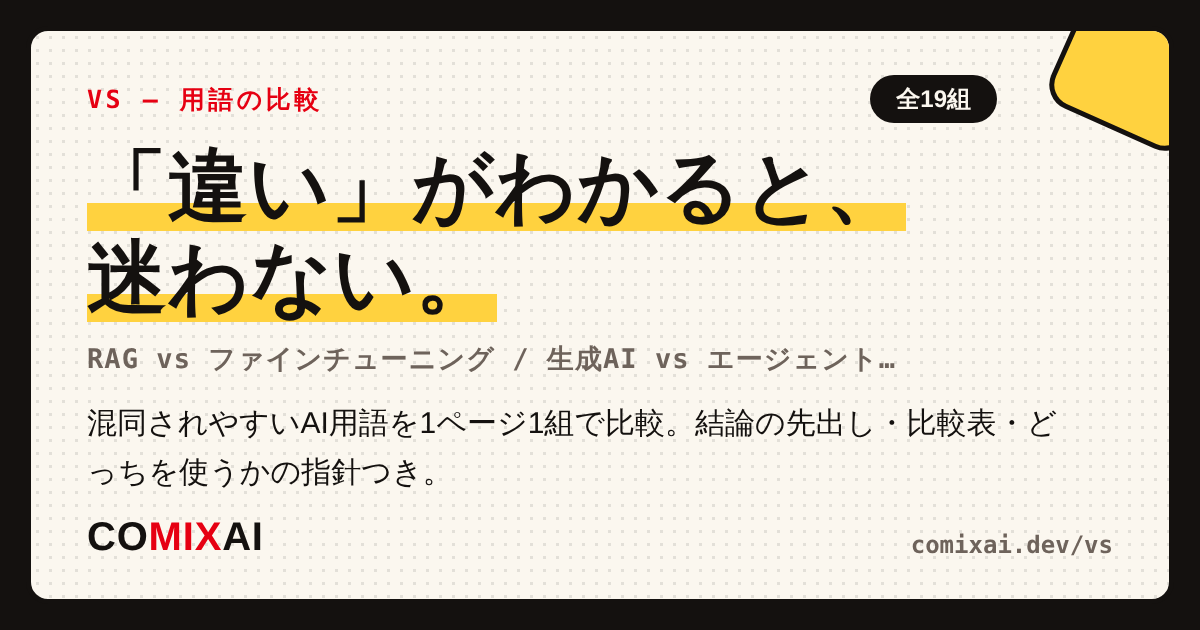
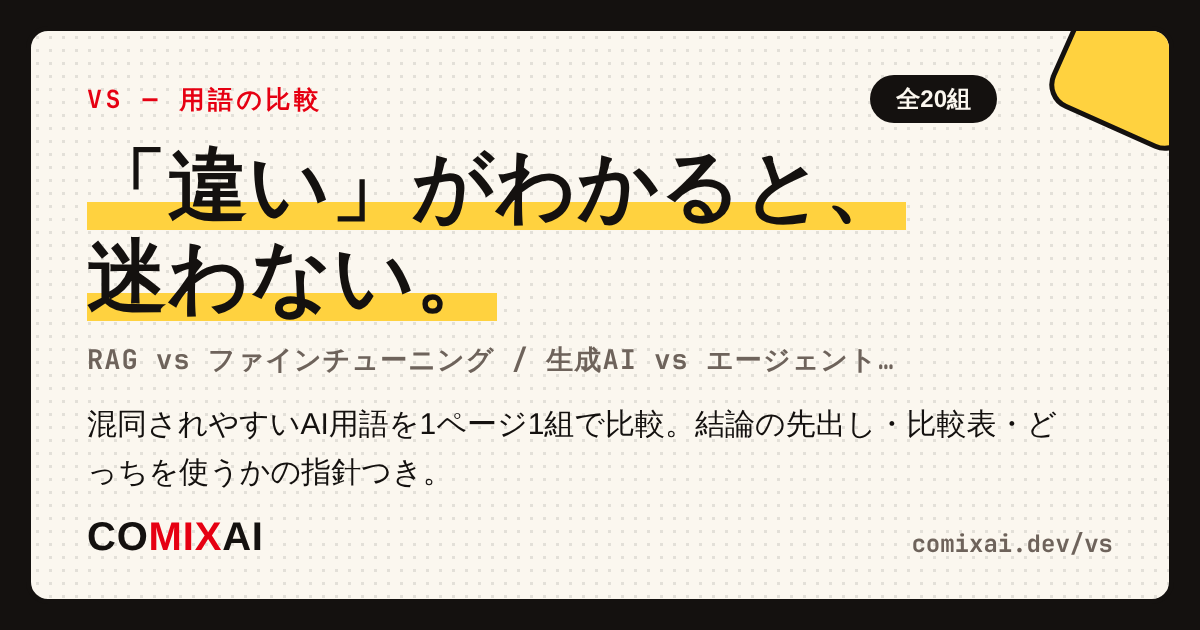
feat: 比較ページに「Gemini 4 CarbonとGPT-6 Cyberの違い」を追加 (#305)
/vs に「Gemini 4 CarbonとGPT-6 Cyberの違い」を追加（全20組）。
VS_UPDATED を 2026-11-11 に更新、#299のルールに従い両用語ページの links に比較リンクを追加、
OGP画像（新ページ分 + 20組入り index.png）を再生成。

Claude-Session: https://claude.ai/code/session_01S4i7KvmcRV6C8UgcMNEjXV

diff --git a/src/app/vs/data.ts b/src/app/vs/data.ts
@@ -47,7 +47,7 @@ export interface VsPair {
   lastUpdated: string;
 }
 
-export const VS_UPDATED = "2026-11-09";
+export const VS_UPDATED = "2026-11-11";
 
 export const VS_PAIRS: VsPair[] = [
   {
@@ -941,6 +941,54 @@ export const VS_PAIRS: VsPair[] = [
       { label: "用語：RAG（机に載りきらない資料は倉庫から検索）", href: "/glossary/rag" },
     ],
     lastUpdated: "2026-11-09",
+  },
+  {
+    slug: "gemini-4-carbon-vs-gpt-6-cyber",
+    aSlug: "gemini-4-carbon",
+    bSlug: "gpt-6-cyber",
+    aName: "Gemini 4 Carbon",
+    bName: "GPT-6 Cyber",
+    title: "Gemini 4 CarbonとGPT-6 Cyberの違い",
+    short:
+      "GoogleとOpenAIが1週間あまりの間に出した、サイバー防御向けの審査制モデル。「守る側にだけ配る」は同じで、成り立ちと配り方が違う2つを、2026年11月時点の情報で整理します。",
+    verdict:
+      "どちらも「攻める力と守る力は同じ能力の裏表」という事実を、審査を通った守る側にだけ配る形にしたモデルです。たとえるなら、同じ時期に2社から出た消防署専用の特殊車両。違いは成り立ちで、Carbonは最上位の新型をまず消防署に回した形、Cyberは現行の主力機を消防仕様に仕立てた形です。",
+    lead: [
+      "Gemini 4 Carbonは、Googleが2026年10月28日に発表したフロンティアモデルです。自社で最も強力なモデルと位置づけられ、強みの打ち出しはサイバーセキュリティと長時間かかる作業の2つ。ソフトウェアの欠陥を見つけ、攻撃者が実際に悪用できるのかを確かめ、根本の原因を直すところまでを、守る側の道具として担います。発表時点で使えるのは、審査制プログラム「Fairwind」を通ったサイバー防御の担当者だけです。",
+      "GPT-6 Cyberは、OpenAIが約1週間後の11月5日に発表した、サイバーセキュリティ専用のモデルです。汎用のフロンティアモデルGPT-6 Astraをもとに、許可を得たセキュリティ業務のために仕立てた派生で、提供は審査制プログラム「Daybreak Red」の承認済み顧客に限られます。OpenAI自身がこのモデルのサイバー分野の危険度を自社基準の最上位「Critical」に分類したうえで、配る相手を絞って出す——という組み立てです。つまり2つは、同じ思想（守る側から配る）のライバル製品で、成り立ちと配り方の細部が違います。",
+    ],
+    rows: [
+      { point: "提供元・発表日", a: "Google・2026年10月28日", b: "OpenAI・2026年11月5日" },
+      { point: "たとえるなら", a: "最上位の新型を、まず消防署に回した", b: "現行の主力機を、消防仕様に仕立てた" },
+      { point: "成り立ち", a: "Argonの上に積んだ自社最強のフロンティア", b: "汎用GPT-6 Astraのセキュリティ専用派生" },
+      { point: "審査制プログラム", a: "Fairwind（サイバー防御の担当者など）", b: "Daybreak Red（承認済み顧客にAPI・Codex経由）" },
+      { point: "公表された中身", a: "自社測定スコア（安全装置を外した条件の注記つき）", b: "Firefoxで未知の脆弱性81件発見などの実地結果" },
+      { point: "一般提供（2026年11月時点）", a: "時期は示されていない", b: "時期は示されていない。組織側に認証等の条件も" },
+    ],
+    usage: [
+      "2026年11月時点で、どちらも一般の利用者や審査を受けていない企業は使えません。なのでこの2つは「選ぶ」話ではなく「読む」話です。読む軸は、1週間あまりの間に2社が揃って「最前線のモデルは、まず守る側から」という同じ配り順を選んだこと。新モデルのニュースを見たら、性能の数字より先に「誰から使えるようにしたか」を見る——この読み方が、2026年後半の標準になりました。性能の数字は両社とも自社測定が中心で、Carbonには安全装置を外した条件での測定という注記、Cyberには汎用版のほうが上だった指標もあるという留保が付いています。順位の断定は、外部の検証が揃うまで保留が正確です。",
+      "もうひとつの持ち帰りは、守る側の宿題です。AIが脆弱性を見つけて悪用可能性まで確かめる速度が上がるほど、修正が配られてから適用するまでの速さが、これまで以上に効いてきます。手元の端末やサーバーの更新を溜めない——という当たり前の作業の価値が、静かに上がっています。「攻める手順と守る手順は同じ能力の裏表」。この1行を知っているだけで、この種のニュースの「すごい」と「怖い」の振れ幅に惑わされにくくなります。",
+    ],
+    faq: [
+      {
+        q: "CarbonとCyberは、どちらが強いのですか？",
+        a: "断定できません。公表されている数字は両社とも自社測定が中心で、測定条件の注記も付いており、第三者の集計サイトの数値もソースによって食い違っています。成り立ち（最上位フロンティアか、汎用機の専用派生か）と配り方の違いで捉えるほうが、2026年11月時点では実態に合います。",
+      },
+      {
+        q: "一般の企業でも使えますか？",
+        a: "基本的には使えません。CarbonはFairwindを通ったサイバー防御の担当者など、CyberはDaybreak Redの承認済み顧客に限られ、Cyberは組織側に多要素認証やネットワーク制限といった条件も付きます。どちらも一般への提供時期は示されていません（2026年11月時点）。",
+      },
+      {
+        q: "なぜ2社とも、守る側にだけ配るのですか？",
+        a: "脆弱性を見つけ、悪用できるかを確かめ、直し方まで示せる能力は、裏返せばそのまま攻撃に使えるからです。審査を通した相手にだけ配る「トラステッドアクセス」方式が各社の標準になりつつあります。一方で「誰を信頼するかを一企業が決めてよいのか」という論点は、未解決のまま残っています。",
+      },
+    ],
+    links: [
+      { label: "Azure OpenAI Service「On your data」で実現するセキュリティを担保した社内DX", href: "https://note.com/aiux_unite/n/nbc43941cd8e6" },
+      { label: "体験ゲーム：AI警備員（AIに仕込まれた隠れ指示を見抜く）", href: "/keibi" },
+      { label: "用語：トラステッドアクセス（審査を通した相手にだけ配る方式）", href: "/glossary/trusted-access" },
+    ],
+    lastUpdated: "2026-11-11",
   },
 ];
 

diff --git a/src/app/glossary/terms-wave4.ts b/src/app/glossary/terms-wave4.ts
@@ -2597,6 +2597,7 @@ export const TERMS_WAVE4: GlossaryTerm[] = [
       { label: "連載「AI時代の流行と本質」シリーズ紹介", href: "/manga/honshitsu" },
       { label: "体験ゲーム：AI警備員（AIに仕込まれた隠れ指示を見抜く）", href: "/keibi" },
       { label: "用語：Gemini 4 Argon（同じ月に出た前の世代）", href: "/glossary/gemini-4-argon" },
+      { label: "比較：Gemini 4 CarbonとGPT-6 Cyberの違い", href: "/vs/gemini-4-carbon-vs-gpt-6-cyber" },
     ],
     relatedSlugs: ["gemini-4-argon", "gemini", "frontier-model", "trusted-access", "bug-bounty", "deep-review"],
     faq: [
@@ -2919,6 +2920,7 @@ export const TERMS_WAVE4: GlossaryTerm[] = [
       { label: "体験ゲーム：AI警備員（AIに仕込まれた隠れ指示を見抜く）", href: "/keibi" },
       { label: "用語：トラステッドアクセス（審査を通した相手にだけ配る方式）", href: "/glossary/trusted-access" },
       { label: "用語：Gemini 4 Carbon（同じ時期に出た、同じ配り方のモデル）", href: "/glossary/gemini-4-carbon" },
+      { label: "比較：Gemini 4 CarbonとGPT-6 Cyberの違い", href: "/vs/gemini-4-carbon-vs-gpt-6-cyber" },
     ],
     relatedSlugs: ["trusted-access", "gemini-4-carbon", "gpt-6", "bug-bounty", "deep-review", "autonomous-cyberattack", "supply-chain-attack", "benchmark"],
     faq: [
